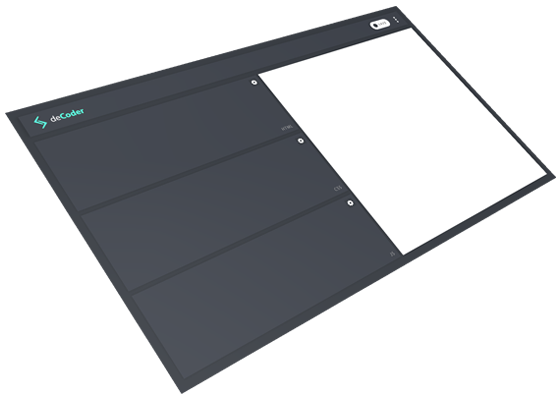
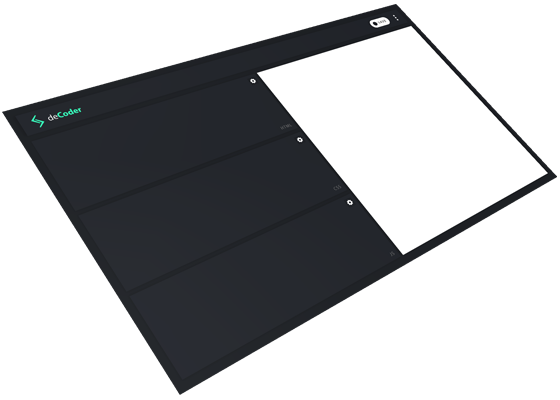
portfolio section wip

diff --git a/assets/css/style.css b/assets/css/style.css
@@ -1827,6 +1827,27 @@ a, a:hover, a:visited {
         .portfolio .showcase ul li .slides .slide.is-slide-show {
           opacity: 1;
           z-index: 1; }
+        .portfolio .showcase ul li .slides .slide:hover .slide-link {
+          -webkit-transform: translate(-50%, -50%) scale(1.2);
+          -ms-transform: translate(-50%, -50%) scale(1.2);
+          transform: translate(-50%, -50%) scale(1.2); }
+        .portfolio .showcase ul li .slides .slide:hover .slide-info {
+          opacity: 1; }
+        .portfolio .showcase ul li .slides .slide .slide-info {
+          width: 80%;
+          padding: .8rem;
+          position: absolute;
+          bottom: 30%;
+          left: 50%;
+          -webkit-transform: translateX(-50%);
+          -ms-transform: translateX(-50%);
+          transform: translateX(-50%);
+          background: rgba(12, 12, 12, 0.7);
+          opacity: 0;
+          -webkit-transition: all .2s ease-in-out;
+          -o-transition: all .2s ease-in-out;
+          transition: all .2s ease-in-out;
+          letter-spacing: .15rem; }
         .portfolio .showcase ul li .slides .slide .slide-link {
           width: 2.5rem;
           height: 2.5rem;
@@ -1857,18 +1878,15 @@ a, a:hover, a:visited {
           cursor: pointer;
           -webkit-box-shadow: 0 0 1.5rem #0c0c0c;
           box-shadow: 0 0 1.5rem #0c0c0c; }
-          .portfolio .showcase ul li .slides .slide .slide-link:hover {
-            -webkit-transform: translateX(-50%) scale(1.2);
-            -ms-transform: translateX(-50%) scale(1.2);
-            transform: translateX(-50%) scale(1.2); }
       .portfolio .showcase ul li .slides .slide-1 {
-        background: url("../images/deCode.png") no-repeat center;
+        background: url("../images/decode.png") no-repeat center;
           background-size: contain; }
       .portfolio .showcase ul li .slides .slide-2 {
         background: url("../images/landing.png") no-repeat center;
           background-size: contain; }
       .portfolio .showcase ul li .slides .slide-3 {
-        background: #0f33ff; }
+        background: url("../images/landing-form.png") no-repeat center;
+          background-size: contain; }
       .portfolio .showcase ul li .slides .slide-4 {
         background: lightgreen; }
   .portfolio .showcase ul [id*='portfolio-motor'] {
@@ -2031,9 +2049,9 @@ a, a:hover, a:visited {
   -ms-transform: translateY(-1rem);
   transform: translateY(-1rem); }
   .contact .contact-wrapper {
-    -webkit-transform: translateY(-4rem);
-    -ms-transform: translateY(-4rem);
-    transform: translateY(-4rem); }
+    -webkit-transform: translateY(-3rem);
+    -ms-transform: translateY(-3rem);
+    transform: translateY(-3rem); }
     .contact .contact-wrapper h2 {
       color: #ed145b;
       letter-spacing: .2rem;

diff --git a/index.html b/index.html
@@ -141,10 +141,18 @@
                                   <li class="fa fa-caret-left fa-lg" id="portfolio-motor-left"></li>
                                   <li>
                                     <div class="slides">
-                                      <div class="slide slide-1 is-slide-show"><a class="slide-link" target="_blank" href="https://vkasraj.github.io/decode"><i class="fa fa-info"></i></a></div>
-                                      <div class="slide slide-2"><a class="slide-link" target="_blank" href="#0"><i class="fa fa-info"></i></a></div>
-                                      <div class="slide slide-3"><a class="slide-link" target="_blank" href="#0"><i class="fa fa-info"></i></a></div>
-                                      <div class="slide slide-4"><a class="slide-link" target="_blank" href="#0"><i class="fa fa-info"></i></a></div>
+                                      <div class="slide slide-1 is-slide-show">
+                                        <div class="slide-info text-center"><small>AN FRONT END CODE EDITOR BUILT WITH VUE.JS</small></div><a class="slide-link" target="_blank" href="https://vkasraj.github.io/decode"><i class="fa fa-info"></i></a>
+                                      </div>
+                                      <div class="slide slide-2">
+                                        <div class="slide-info"></div><a class="slide-link" target="_blank" href="#0"><i class="fa fa-info"></i></a>
+                                      </div>
+                                      <div class="slide slide-3">
+                                        <div class="slide-info text-center"><small>A LANDING PAGE DEMO WITH FORM</small></div><a class="slide-link" target="_blank" href="https://vkasraj.github.io/landing-form"><i class="fa fa-info"></i></a>
+                                      </div>
+                                      <div class="slide slide-4">
+                                        <div class="slide-info"></div><a class="slide-link" target="_blank" href="#0"><i class="fa fa-info"></i></a>
+                                      </div>
                                     </div>
                                   </li>
                                   <li class="fa fa-caret-right fa-lg" id="portfolio-motor-right"></li>

diff --git a/assets/css/mobile/_portfolio.sass b/assets/css/mobile/_portfolio.sass
@@ -22,6 +22,22 @@
             &.is-slide-show
               opacity: 1
               z-index: 1
+            &:hover
+              .slide-link
+                transform: translate(-50%, -50%) scale(1.2)
+              .slide-info
+                opacity: 1
+            .slide-info
+              width: 80%
+              padding: .8rem
+              position: absolute
+              bottom: 30%
+              left: 50%
+              transform: translateX(-50%)
+              background: transparentize($dark,.3)
+              opacity: 0
+              transition: all .2s ease-in-out
+              letter-spacing: .15rem
             .slide-link
               +size(2.5rem)
               position: absolute
@@ -37,16 +53,15 @@
               transition: all .2s ease-in-out
               cursor: pointer
               box-shadow: 0 0 1.5rem transparentize($dark, 0)
-              &:hover
-                transform: translateX(-50%) scale(1.2)
           .slide-1
-            background: url('../images/deCode.png') no-repeat center
+            background: url('../images/decode.png') no-repeat center
               size: contain
           .slide-2
             background: url('../images/landing.png') no-repeat center
               size: contain
           .slide-3
-            background: $blue
+            background: url('../images/landing-form.png') no-repeat center
+              size: contain
           .slide-4
             background: lightgreen
       [id*='portfolio-motor']

diff --git a/assets/css/mobile/_contact.sass b/assets/css/mobile/_contact.sass
@@ -1,7 +1,7 @@
 .contact
   transform: translateY(-1rem)
   .contact-wrapper
-    transform: translateY(-4rem)
+    transform: translateY(-3rem)
     h2
       color: $red
       letter-spacing: .2rem
